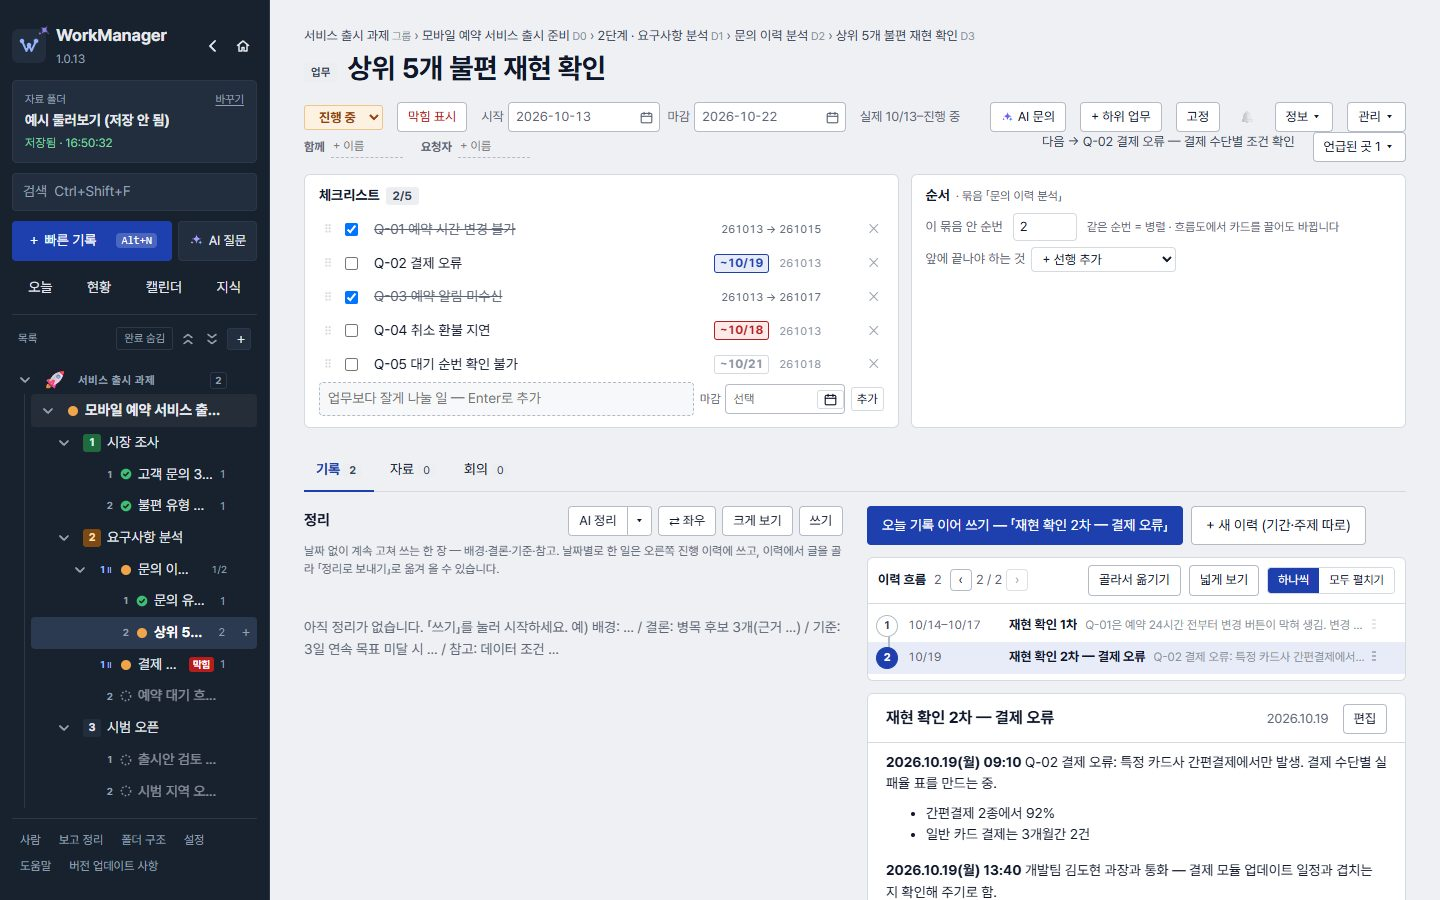
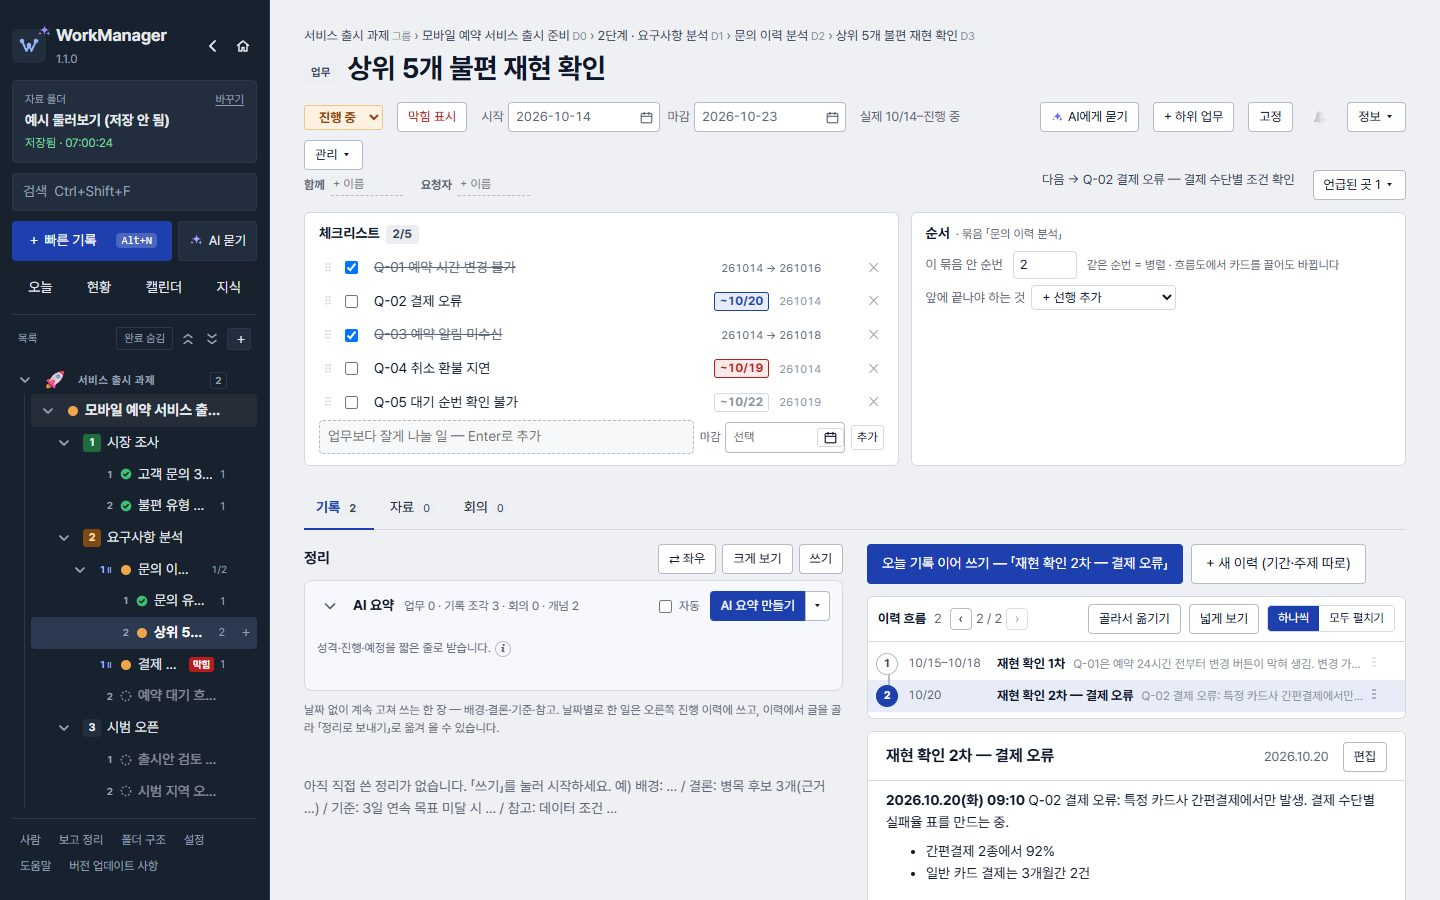
docs: WorkManager 1.1.0 안내와 설명서 갱신
Agent: Codex

diff --git a/README.md b/README.md
@@ -2,7 +2,7 @@
 
 흐름으로 업무를 관리하고, 쌓인 기록을 AI로 요약·정리하는 Windows 개인 업무 관리 앱입니다.
 
-**최신 버전: 1.0.13** · Windows (x64)
+**최신 버전: 1.1.0** · Windows (x64)
 
 | 필요한 것 | 바로가기 |
 |---|---|
@@ -13,23 +13,32 @@
 
 ![프로젝트의 개요와 업무 흐름](manual/img/04-project.jpg)
 
-## 1.0.13에서 달라진 점
+## 1.1.0에서 달라진 점
 
-- 업데이트를 받거나 다시 시작할 때 최신 버전을 다시 확인하고, 준비된 파일과 종료 시 업데이트 상태를 정리합니다.
-- 링크 붙여넣기·편집 단축키·화면 배치와 그림 읽기 대기를 개선했습니다.
-- 하위 업무 AI 정리를 먼저 끝내고 상위 요약을 갱신하며, 휴지통 비우기를 추가했습니다.
+AI 기능을 정리한 판입니다. 같은 일을 하던 여러 AI 기능을 하나로 합쳤습니다.
+
+- **AI 요약 하나로**: 한눈 요약과 AI 정리·AI 브리핑을 업무·단계·프로젝트마다 「AI 요약」(짧은 줄 + 자세히) 하나로 합쳤습니다. 정리 탭 맨 위 AI 칸은 읽기 전용이고, 그 아래 편집기에는 내가 쓴 글만 보입니다. 단독 업무까지 배경에서 만들어 두며, 날짜만 바뀐 경우에는 다시 만들지 않습니다. 짧은 줄은 자료 폴더(`ai/summaries`)에 저장되어 다른 PC에서도 보입니다.
+- **오늘 브리핑 하나로**: 현황의 「AI가 본 챙길 것」을 오늘 브리핑 안으로 합쳤습니다.
+- **AI에게 묻기 한 창**: 범위(고른 글 · 이 업무 · 이 프로젝트 · 전체 · 일반)를 골라 묻습니다. 고른 글에는 **AI ▸**(요약 한 줄 · 핵심 3개 · 표로 · 다듬기 · 코드 설명)를 창 없이 씁니다.
+- **AI 보고 = 보고 글**: 인사 → 한 일 → 중요했던 점 → 다음 → 확인 필요 → 맺음 순서의 실제 보고 글로 씁니다(보고자·받는 사람·어투 설정).
+- **AI 꼬리표 정리**: 업무 지식의 꼬리표를 하위 분류·합치기로 다시 정리하고, 승인한 분류는 고정합니다.
+- **그림 읽기 2판**: 차트 추세·특이점·흐름도 화살표를 정해진 항목으로 읽습니다. 예전 방식으로 읽은 그림은 다시 읽을 수 있고(이전 결과 보관·되돌리기), AI 요약에 **※그림** 표시가 붙습니다.
+- 휴지통 확인창에 회의가 옮겨 갈 곳을 표시하고, 업데이트를 건너뛴 판이 있어도 받아 둔 판을 유지합니다.
 
 ## 알려진 문제
 
-- 1.0.12 이하에서 업데이트하면, 그 판의 업데이트 방식 때문에 1.0.13 전에 한 번 더 업데이트해야 할 수 있다(1.0.13부터 고침).
-- 휴지통 비우기는 되돌릴 수 없다(직전 백업에는 남음).
+- 1.0.13 이하 앱으로 같은 폴더를 열면 AI 요약 짧은 줄은 그 PC에 있던 것만 보입니다(자세히는 예전처럼 정리 맨 위에 보임).
+- 자동 AI 하루 한도를 골라 둔 경우, 그림 다시 읽기 뒤 다시 만드는 요약도 한도에 듭니다(기본은 제한 없음).
+- 폴더를 연 직후 몇 초 안에 직접 만든 짧은 줄이 뒤늦게 읽힌 파일에 덮일 수 있습니다(다시 만들면 됩니다).
+- 설명서 그림 일부(AI 요약·현황·AI 요약 자세히)에 시험용 모의 응답 문구가 보입니다. 곧 설명서만 교체합니다.
+- 휴지통 비우기는 되돌릴 수 없습니다(직전 백업에는 남음).
 
 ## 할 수 있는 일
 
 - **업무 흐름**: 그룹 › 프로젝트 › 단계 › 업무로 나누고, 순번·병렬·선후 관계로 지금 할 일과 막힌 일을 한눈에 봅니다.
 - **기록**: 날짜별 진행 이력과 계속 다듬는 정리를 글·표·사진·코드로 남깁니다. 엑셀 표를 서식 그대로 붙여 넣을 수 있습니다.
 - **일정과 회의**: 오늘 할 일, 캘린더, 간트, 반복 회의와 회의록의 후속 조치를 연결합니다.
-- **AI 요약과 보고**: 직접 연결한 AI로 정리·브리핑·일/주/월 보고·질문을 실행합니다. AI 정리·브리핑은 단추 본체로 바로 실행하고 ▾에서 보낼 글을 확인합니다.
+- **AI 요약과 보고**: 직접 연결한 AI로 AI 요약·일/주/월 보고·질문을 실행합니다. AI 요약은 단추 본체로 바로 실행하고 ▾에서 보낼 글을 확인합니다.
 - **내 PC에 보관**: 고른 폴더에 기록을 파일(JSON·첨부)로 보관하고, 백업·휴지통·Excel 내보내기를 씁니다.
 
 ## 처음 사용하기
@@ -48,15 +57,15 @@
 AI 기능은 쓰는 사람이 직접 연결해야 켜집니다(**설정 › AI 연결**). OpenAI 호환 API나 회사 안의 LLM 서버를 등록할 수 있고, 여러 개를 등록해 골라 쓸 수 있습니다. 연결하지 않아도 기록·흐름·일정 기능은 모두 쓸 수 있습니다.
 
 - AI 연결이 있으면 앱을 켤 때와 화면을 열 때 바뀐 정리·요약을 등록한 주소로 전송합니다. 일하는 중에는 지금 화면만 편집 완료 또는 마지막 변경 뒤 1분 후 갱신합니다. 자동 요청은 합산해 기본 제한 없음이며 **설정 › 시작 · 알림**에서 끄거나 20·50·100회 한도를 정할 수 있습니다(실패·중단 포함).
-- AI 정리·보고는 보내기 전에 보낼 글 전문을 확인할 수 있습니다.
-- AI 질문은 **내 기록·업무 지식·일반 지식** 범위를 고릅니다. 처음에는 내 기록과 업무 지식이 켜져 있으며, 답 아래 보낸 기록에서 근거를 확인할 수 있습니다.
+- AI 요약·보고는 보내기 전에 보낼 글 전문을 확인할 수 있습니다.
+- **AI에게 묻기**는 고른 글·이 업무·이 프로젝트·전체·일반 범위를 고릅니다. 답 아래 보낸 기록에서 근거를 확인할 수 있습니다.
 - 범위를 바꿔도 지금 대화는 이어지며 다음 질문부터 새 범위를 적용합니다. 이전 대화는 이력에서 다시 열 수 있습니다.
 - API 키는 이 PC의 앱 설정에만 저장되고 자료 폴더에는 들어가지 않습니다. 업데이트 후에도 기존 연결을 이어 씁니다.
 - AI 답에는 의미 오류와 누락이 남을 수 있습니다. 정정 표시·이유·원문과 근거 기록을 확인하세요.
 
 ## 업데이트
 
-1.0.8부터는 설정 › 업데이트 › 지금 확인에서 바뀐 점을 읽고 받은 뒤 「지금 다시 시작」 또는 「끌 때 바꾸기」를 고릅니다. 현재 1.0.11에서 정식 1.0.12로 업데이트할 수 있습니다. 직접 교체하려면 아래 순서를 따르세요.
+1.0.8부터는 설정 › 업데이트 › 지금 확인에서 바뀐 점을 읽고 받은 뒤 「지금 다시 시작」 또는 「끌 때 바꾸기」를 고릅니다. 1.0.11·1.0.12·1.0.13에서 정식 1.1.0으로 직접 업데이트하는 경로를 확인했습니다. 직접 교체하려면 아래 순서를 따르세요.
 
 1. 트레이에서 **완전히 종료**합니다.
 2. 새 `WorkManager.exe`로 바꿔 넣고 실행합니다.
